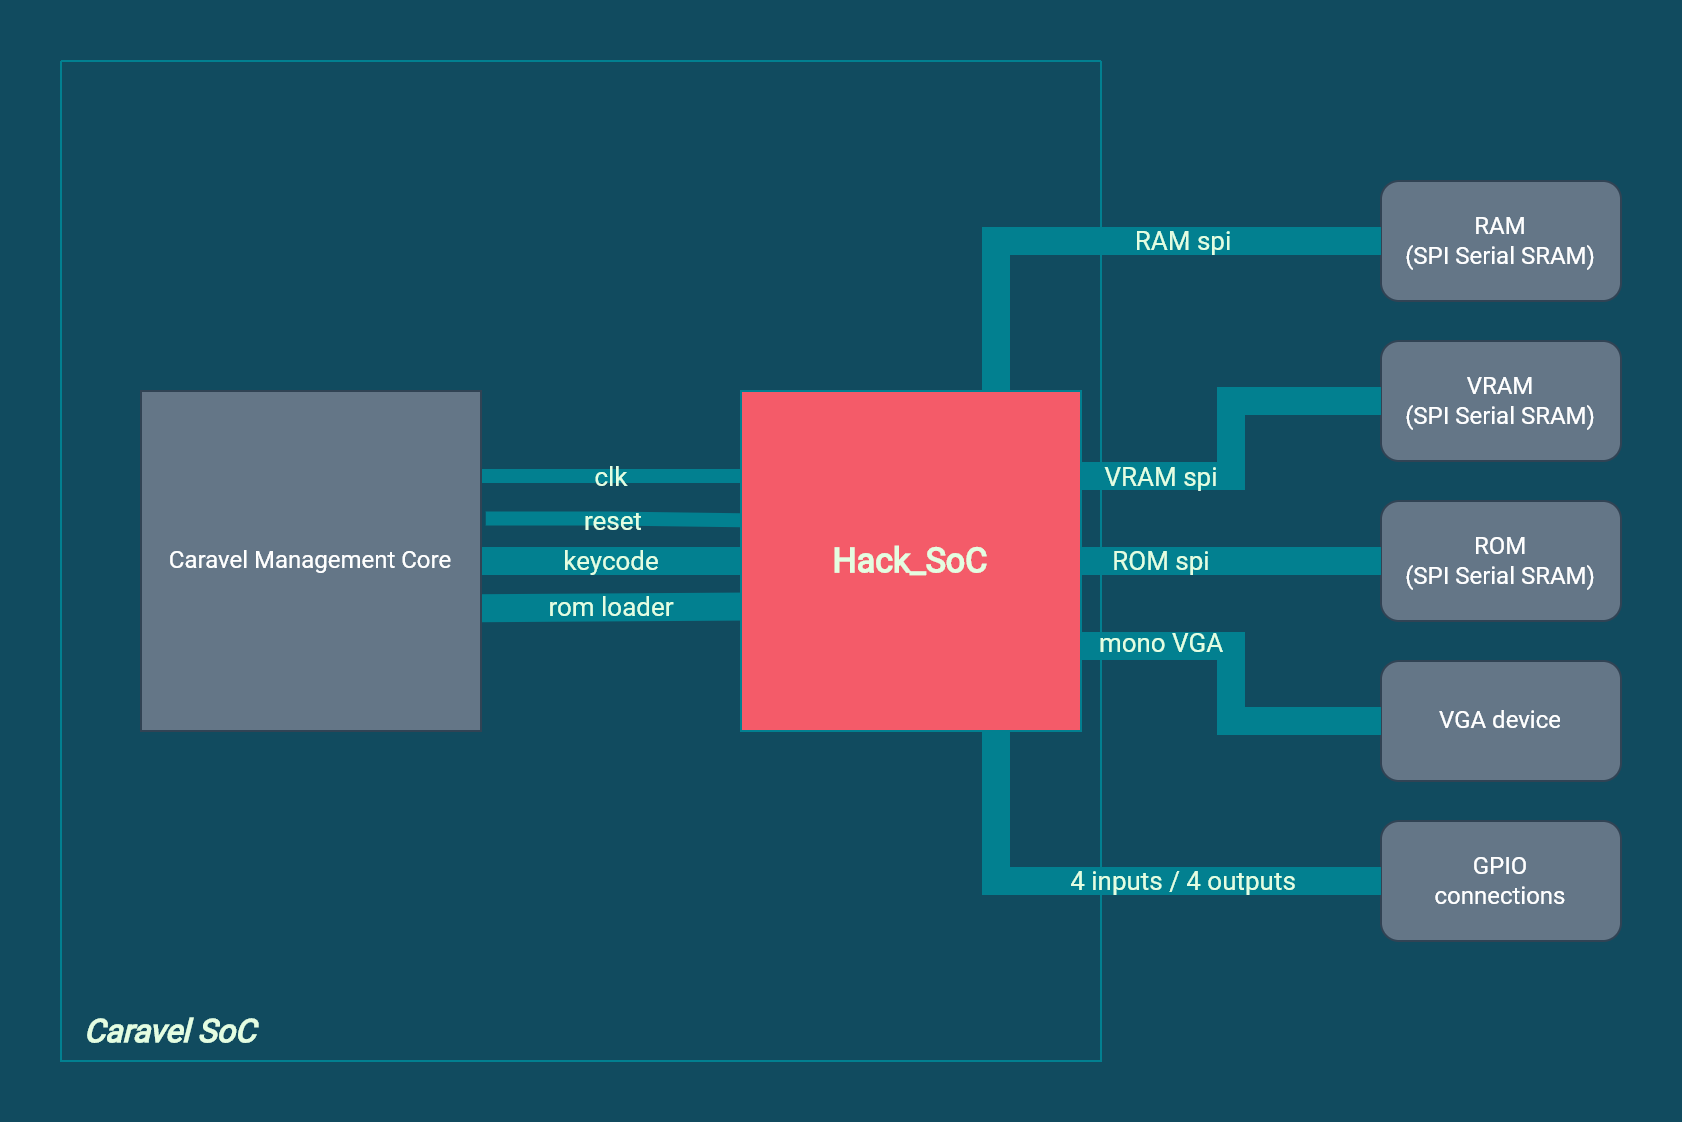
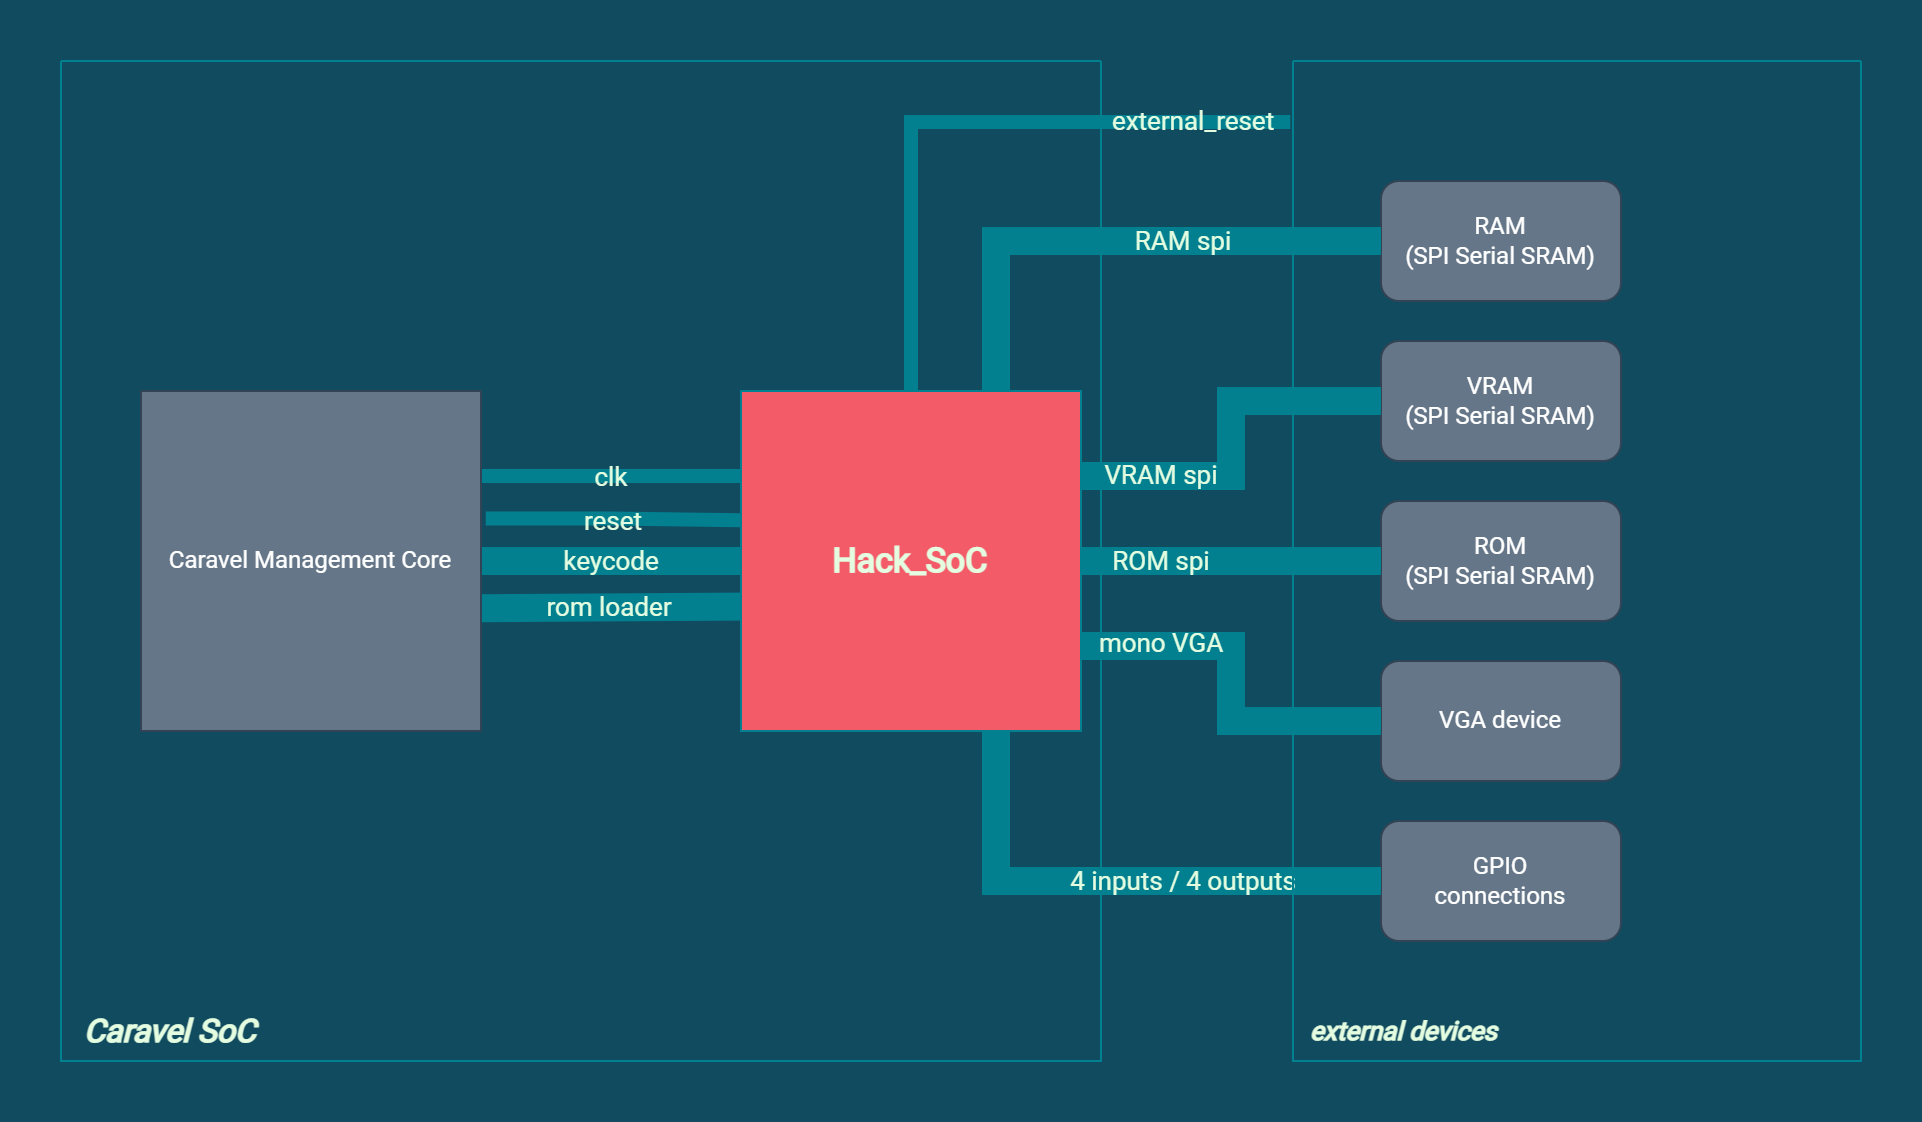
Update README.md file

Changed region(s): [[0.0618, 0.0936, 0.9893, 0.8422], [0.0309, 0.9046, 0.1546, 0.9358], [0.6801, 0.9046, 0.7729, 0.9358]]

diff --git a/README.md b/README.md
@@ -7,6 +7,12 @@
 
 ### **MPRJ_IO Connections:**
 
+| |  | |
+|---|---|---|
+|Hack External Reset (input)|MPRJ_IO[26]|connect to GND|
+|DISPLAY_RGB (output)|MPRJ_IO[29]|connector to Logic Analyzer or Scope|
+
+
 // Hack External Reset (input)
 MPRJ_IO[26]  ==> connect to GND
 
